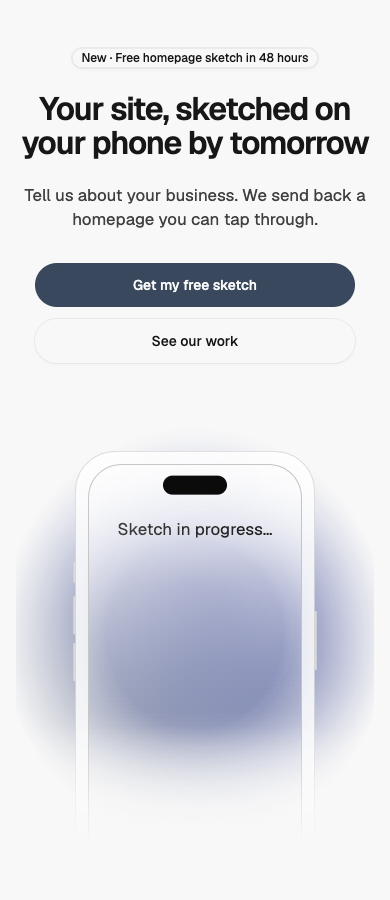
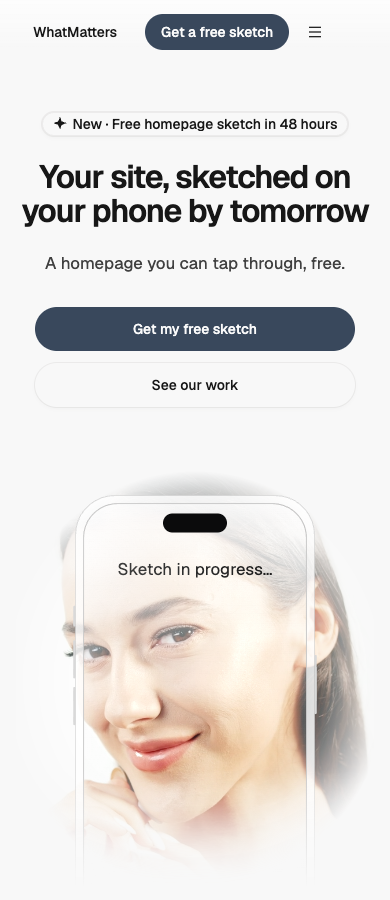
hero/phone-center: approved (Randy, 2026-10-27); screenshots re-shot
Status approved, index row no longer draft, README notes the example media and the Badge-size
WMDS-GAP.

diff --git a/patterns/hero/phone-center/README.md b/patterns/hero/phone-center/README.md
@@ -1,9 +1,10 @@
 # Hero — Phone Center
 
-status: draft
+status: approved
 
 Structure from lovi.care's hero (Randy's reference, 2026-10-26); nothing copied but the idea.
-**File:** `HeroPhoneCenter.tsx` (copy it). **Example:** `example.tsx` (abstract gradient standing in for a real photo or video).
+Randy approved it in the gallery on 2026-10-27.
+**File:** `HeroPhoneCenter.tsx` (copy it). **Example:** `example.tsx`: Mixkit's free clip 9101 (Mixkit License) behind the phone and a caption on the screen; shown in light only (see Light and dark).
 
 A centred hero for an app or a mobile-first service: an eyebrow pill, a headline, a subhead and a CTA row, then a wide photo or video that fades into the page, with an iPhone frame over its centre. The media shows through the phone's glass screen, and a caption can sit on the screen. The whole stage fades out at its foot, like a fold.
 
@@ -73,6 +74,8 @@ The pattern follows the theme, but the media doesn't: footage shot on a white st
 Nav→eyebrow 48 / 96 (phone / desktop), headline→subhead 24, subhead→CTAs 32, CTAs→stage 40 / 64. The stage is `clamp(26rem, 52vw, 40rem)` tall and fades out over its last 28%.
 
 ## WMDS-GAPs
+
+- The eyebrow uses WMDS Badge `md`, the largest size. A Lovi-sized pill (about 36px) needs a larger Badge size in WMDS.
 
 - No WMDS media component (image or video with poster, a pause control, reduced-motion handling); the pattern carries its own small video player until WMDS has one.
 - No WMDS device frame; the iPhone outline is SVG inside the pattern.

diff --git a/SKILL.md b/SKILL.md
@@ -23,7 +23,7 @@ Patterns marked draft aren't approved yet: prefer approved ones, and say so if y
 | Pattern | Purpose | Use when | Don't use when | Folder |
 |---|---|---|---|---|
 | Hero — Feature Center (draft) | Centred pitch and CTAs over the product in a backlit frame, then a row of client logos | The first screen of a site that sells a product or service and has a product shot or site to show, with proof (logos) under it | The hero is mostly a photo or video, an article or app screen, or an editorial left-aligned layout is wanted | `patterns/hero/feature-center` |
-| Hero — Phone Center (draft) | Centred pitch and CTAs over a wide photo or video, with an iPhone frame showing the app in the middle | An app or mobile-first service whose story is what happens on the phone, with a photo or video to set the mood | There's no phone to show, or the product is a desktop app or a website (use hero/feature-center) | `patterns/hero/phone-center` |
+| Hero — Phone Center | Centred pitch and CTAs over a wide photo or video, with an iPhone frame showing the app in the middle | An app or mobile-first service whose story is what happens on the phone, with a photo or video to set the mood | There's no phone to show, or the product is a desktop app or a website (use hero/feature-center) | `patterns/hero/phone-center` |
 
 ## Conventions
 
